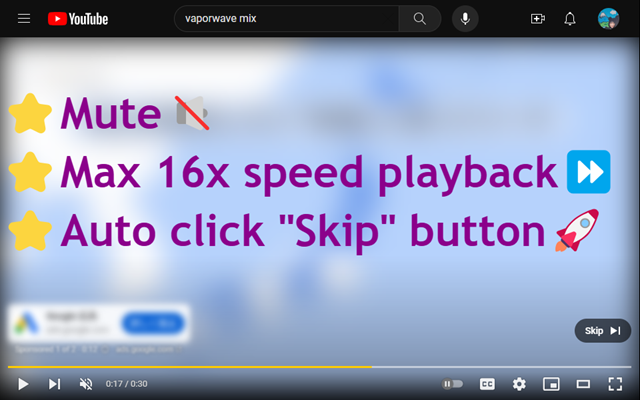
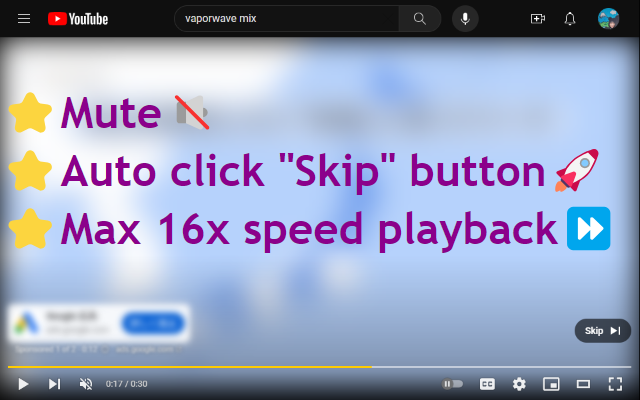
support ad blocking warnings

diff --git a/assets/popup.html b/assets/popup.html
@@ -34,14 +34,17 @@
     <div class="playback-rates">
       <input type="radio" class="btn-check" name="playback-rate" id="option1" autocomplete="off" value="1">
       <label class="btn btn-outline-primary btn-sm" for="option1">1x</label>
-      <input type="radio" class="btn-check" name="playback-rate" id="option2" autocomplete="off" value="2">
-      <label class="btn btn-outline-primary btn-sm" for="option2">2x</label>
-      <input type="radio" class="btn-check" name="playback-rate" id="option3" autocomplete="off" value="4">
-      <label class="btn btn-outline-primary btn-sm" for="option3">4x</label>
-      <input type="radio" class="btn-check" name="playback-rate" id="option4" autocomplete="off" value="8">
-      <label class="btn btn-outline-primary btn-sm" for="option4">8x</label>
-      <input type="radio" class="btn-check" name="playback-rate" id="option5" autocomplete="off" value="16">
-      <label class="btn btn-outline-primary btn-sm" for="option5">16x</label>
+      <span class="caution-message"
+        title="CAUTION: YouTube may display ad-blocking warnings, or prevent normal playback.">
+        <input type="radio" class="btn-check" name="playback-rate" id="option2" autocomplete="off" value="2">
+        <label class="btn btn-outline-warning btn-sm" for="option2">2x</label>
+        <input type="radio" class="btn-check" name="playback-rate" id="option3" autocomplete="off" value="4">
+        <label class="btn btn-outline-danger btn-sm" for="option3">4x</label>
+        <input type="radio" class="btn-check" name="playback-rate" id="option4" autocomplete="off" value="8">
+        <label class="btn btn-outline-danger btn-sm" for="option4">8x</label>
+        <input type="radio" class="btn-check" name="playback-rate" id="option5" autocomplete="off" value="16">
+        <label class="btn btn-outline-danger btn-sm" for="option5">16x</label>
+      </span>
     </div>
     <div class="border-top mt-3 pt-2 mb-2">
       <span class="fw-bold">Exclude Channels</span>

diff --git a/src/popup.js b/src/popup.js
@@ -76,6 +76,10 @@ playbackRates$.forEach((el) => {
   el.checked = Number(el.value) === playbackRate;
   el.addEventListener('change', () => {
     const { value } = playbackRates$.find((el2) => el2.checked);
+    if (value !== '1') {
+      // eslint-disable-next-line no-alert
+      alert(el.parentElement.title);
+    }
     setStorage('playbackRate', Number(value));
   });
 });

diff --git a/promo/promo640.html b/promo/promo640.html
@@ -52,8 +52,9 @@
     /* font-family: Cambria, Cochin, Georgia, Times, 'Times New Roman', serif; */
     /* font-family: Verdana, Geneva, Tahoma, sans-serif; */
 ">⭐Mute🔇
+      ⭐Auto click "Skip" button🚀
       ⭐Max 16x speed playback⏩
-      ⭐Auto click "Skip" button🚀</p>
+    </p>
     <svg style="
     width: 640px;
     height: 300px;

diff --git a/src/background.js b/src/background.js
@@ -43,7 +43,7 @@ chrome.storage.local.get().then(({ enabled }) => {
       enabled: true,
       mute: true,
       skip: true,
-      playbackRate: 2,
+      playbackRate: 1,
       exChannels: [],
     });
   }

diff --git a/src/popup.css b/src/popup.css
@@ -42,8 +42,8 @@ main {
   }
 }
 
-.playback-rates>label {
-  border-radius: 50px;
+.playback-rates label {
+  border-radius: 100vh;
 }
 
 .w-2 {
